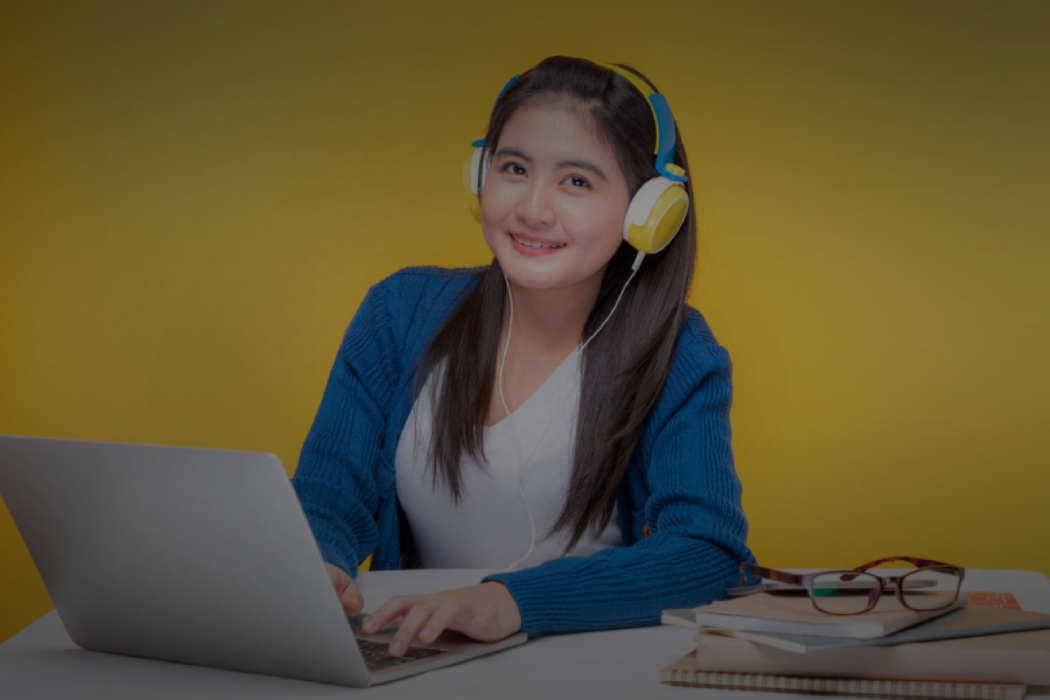
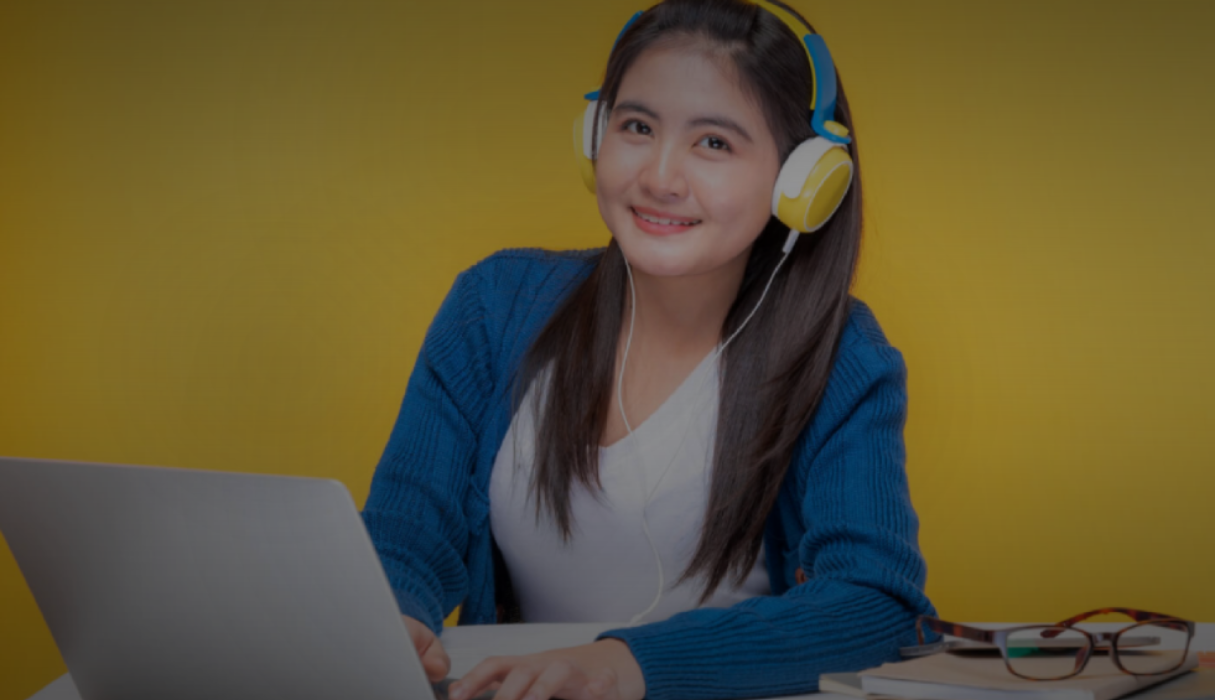
course section added

diff --git a/index.html b/index.html
@@ -37,11 +37,11 @@
           </nav>
         <!-- navbar end -->
         <!-- carousel start -->
-        <div id="carouselExampleCaptions" class="carousel slide mt-3 ms-3 me-3" data-bs-ride="false">
+        <div id="carouselExampleCaptions" class="carousel slide mt-3 ms-3 me-3 mb-5" data-bs-ride="false">
            
             <div class="carousel-inner">
               <div class="carousel-item active">
-                <img src="images/cover/cover-1.png" class="d-block carousel-img-size w-100" alt="...">
+                <img  style="height: 700px;" src="images/cover/cover-1.png" class="d-block w-100 " alt="...">
                 <div class="carousel-caption d-flex flex-column justify-content-center align-items-center h-100">
                   <h5 class="fs-1 fw-bold mb-4">Get Started Digital Learning</h5>
                   <p class="fs-4">It is a long established fact that a reader will be distracted by the readable content of a page when looking at its layout.</p>
@@ -49,7 +49,7 @@
                 </div>
               </div>
               <div class="carousel-item">
-                <img src="images/cover/cover-2.png" class="d-block carousel-img-size w-100" alt="...">
+                <img style="height: 700px;" src="images/cover/cover-2.png" class="d-block w-100 "  alt="...">
                 <div class="carousel-caption d-flex flex-column justify-content-center align-items-center h-100">
                     <h5 class="fs-1 fw-bold mb-4">Get Started Digital Learning</h5>
                     <p class="fs-4">It is a long established fact that a reader will be distracted by the readable content of a page when looking at its layout.</p>
@@ -57,7 +57,7 @@
                 </div>
               </div>
               <div class="carousel-item">
-                <img src="images/cover/cover-3.png" class="d-block w-100 carousel-img-size" alt="...">
+                <img style="height: 700px;" src="images/cover/cover-3.png" class="d-block w-100" alt="...">
                 <div class="carousel-caption d-flex flex-column justify-content-center align-items-center h-100">
                     <h5 class="fs-1 fw-bold mb-4">Get Started Digital Learning</h5>
                     <p class="fs-4">It is a long established fact that a reader will be distracted by the readable content of a page when looking at its layout.</p>
@@ -76,6 +76,106 @@
           </div>
         <!-- carousel end -->
     </header>
+
+    <main class="ms-5 me-5">
+        <!-- course section start-->
+        <section class="d-flex flex-column align-items-center">
+            <div class="text-center">
+                <h2>Discover Our Popular Couses</h2>
+                <p class="default-text-color">It is a long established fact that a reader will be distracted by the readable content of a page when looking at its layout.</p>
+            </div>
+            <div class="container mt-3 mb-5">
+                
+                <div class="row g-4">
+                    <!-- first course -->
+                    <div class="col-lg-6 col-md-12  ">
+                       <div class="d-flex border">
+                        <div>
+                            <img src="images/course/course-1.png" alt="">
+                        </div>
+                        <div >
+                            <h5>Fundamental Of UI/UX Design</h5>
+                            <p>Some quick example text to build on the card title and make up the bulk of the card.</p>
+                            <h5>Price : 20$</h5>
+                        </div>
+                       </div>
+
+                    </div>
+                    <!-- second course -->
+                    <div class="col-lg-6 col-md-12 ">
+                       <div class="d-flex border">
+                        <div>
+                            <img src="images/course/course-2.png" alt="">
+                        </div>
+                        <div class="border">
+                            <h5>Fundamental Of UI/UX Design</h5>
+                            <p>Some quick example text to build on the card title and make up the bulk of the card.</p>
+                            <h5>Price : 20$</h5>
+                        </div>
+                       </div>
+                    </div>
+                    <!-- third course -->
+                    <div class="col-lg-6 col-md-12  ">
+                       <div class="d-flex border">
+                        <div>
+                            <img src="images/course/course-3.png" alt="">
+                        </div>
+                        <div >
+                            <h5>Fundamental Of UI/UX Design</h5>
+                            <p>Some quick example text to build on the card title and make up the bulk of the card.</p>
+                            <h5>Price : 20$</h5>
+                        </div>
+                       </div>
+
+                    </div>
+                    <!-- fourth course -->
+                    <div class="col-lg-6 col-md-12 ">
+                       <div class="d-flex border">
+                        <div>
+                            <img src="images/course/course-4.png" alt="">
+                        </div>
+                        <div class="border">
+                            <h5>Fundamental Of UI/UX Design</h5>
+                            <p>Some quick example text to build on the card title and make up the bulk of the card.</p>
+                            <h5>Price : 20$</h5>
+                        </div>
+                       </div>
+                    </div>
+                    <!-- fifth course -->
+                    <div class="col-lg-6 col-md-12  ">
+                       <div class="d-flex border">
+                        <div>
+                            <img src="images/course/course-5.png" alt="">
+                        </div>
+                        <div >
+                            <h5>Fundamental Of UI/UX Design</h5>
+                            <p>Some quick example text to build on the card title and make up the bulk of the card.</p>
+                            <h5>Price : 20$</h5>
+                        </div>
+                       </div>
+
+                    </div>
+                    <!-- sixth course -->
+                    <div class="col-lg-6 col-md-12 ">
+                       <div class="d-flex border">
+                        <div>
+                            <img src="images/course/course-6.png" alt="">
+                        </div>
+                        <div class="border">
+                            <h5>Fundamental Of UI/UX Design</h5>
+                            <p>Some quick example text to build on the card title and make up the bulk of the card.</p>
+                            <h5>Price : 20$</h5>
+                        </div>
+                       </div>
+                    </div>
+                </div>
+
+            </div>
+            <button type="button" class="btn btn-primary btn-lg">See More Courses</button>
+
+        </section>
+        <!-- course section end-->
+    </main>
 
 
     

diff --git a/styles/style.css b/styles/style.css
@@ -2,7 +2,6 @@
     color: #777777;
 }
 
-.carousel-img-size{
-    
-    height: 700px;
+.carousel-height{
+    height: 720px;
 }
